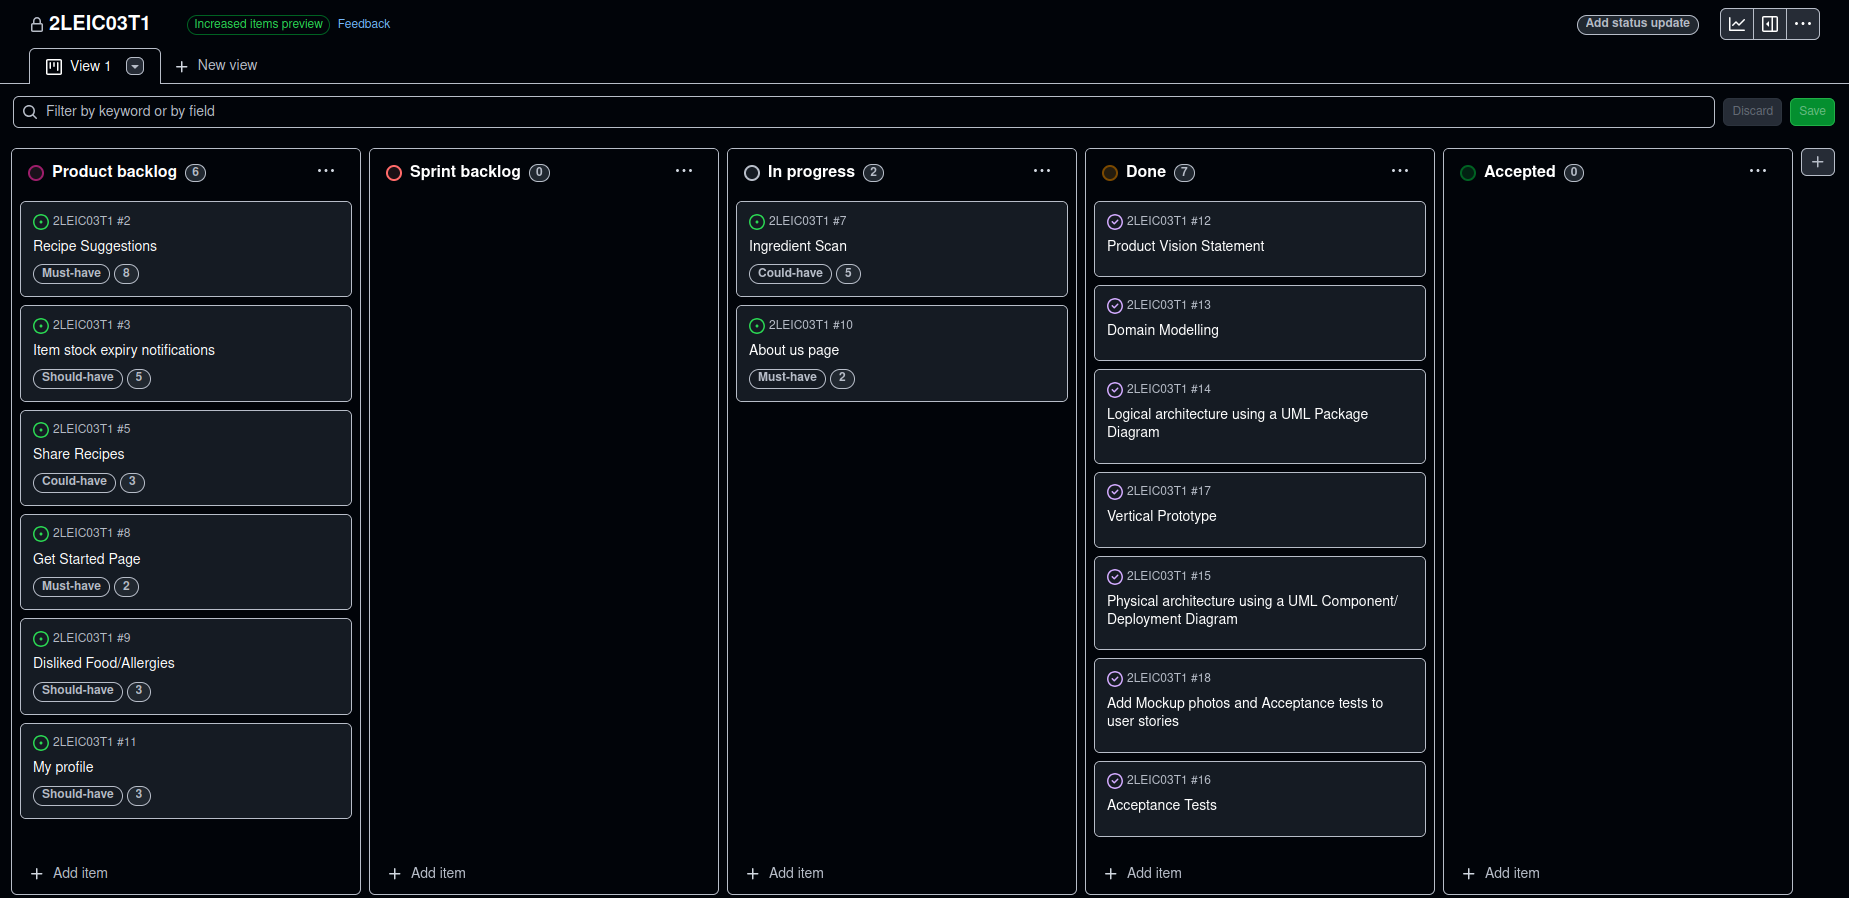
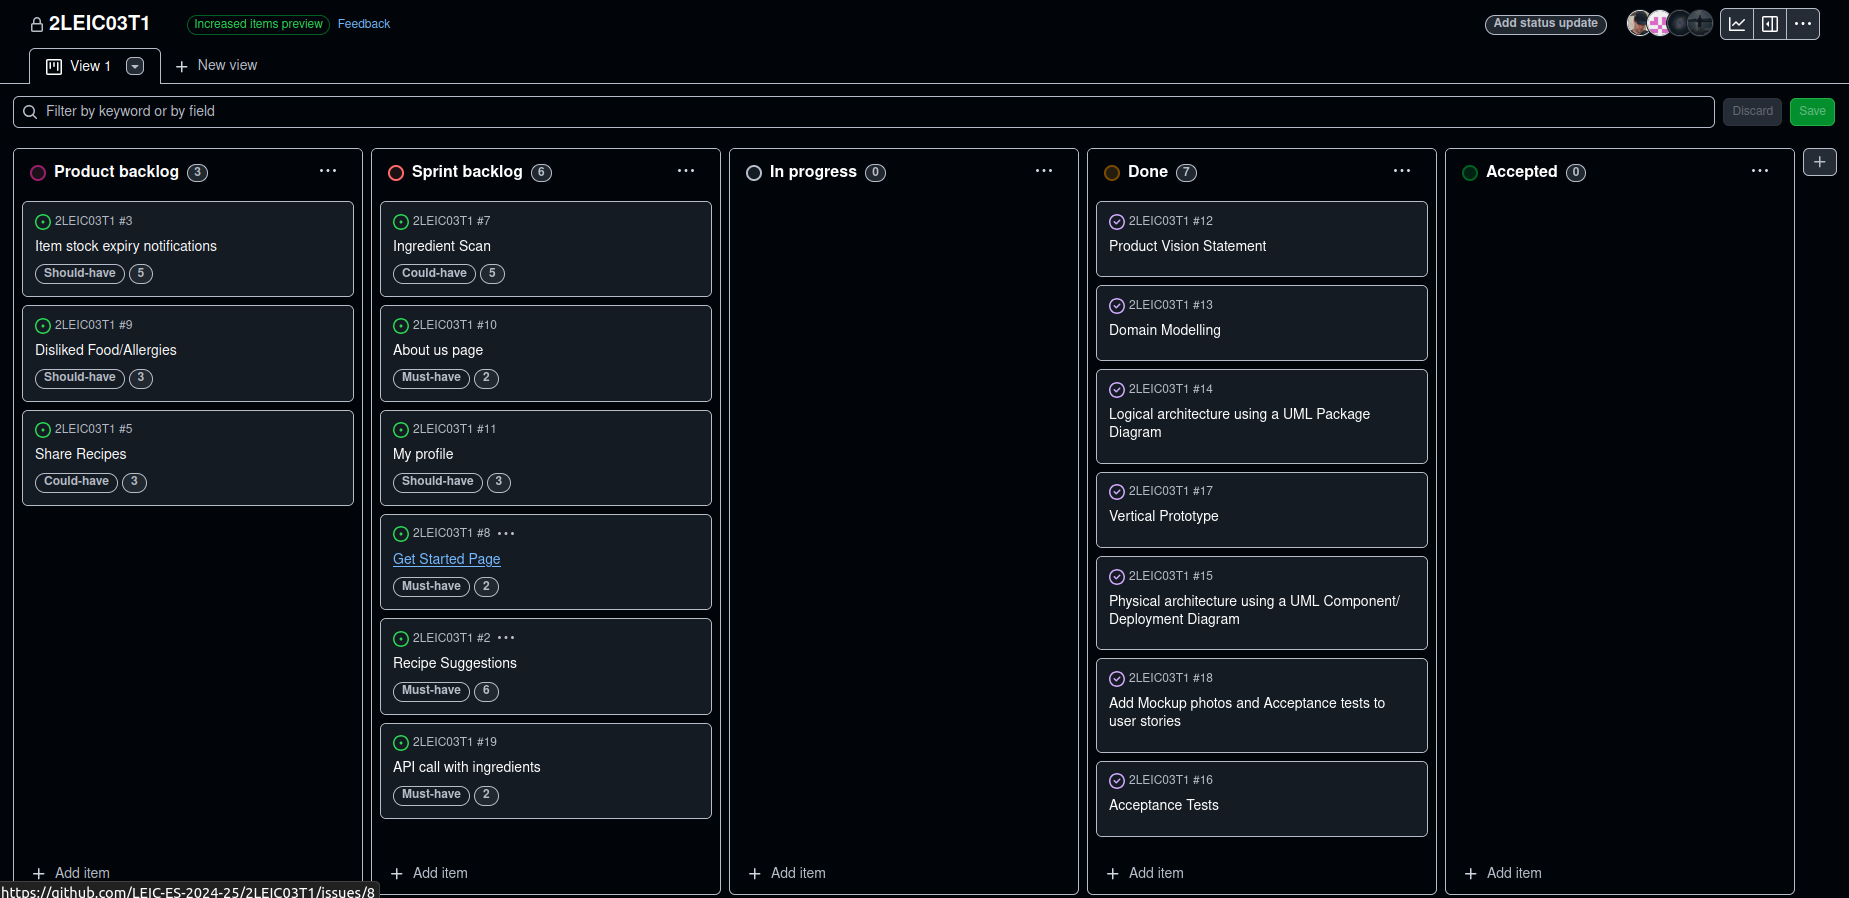
Changed some things on README and board

diff --git a/README.md b/README.md
@@ -25,7 +25,6 @@ This Software Development Report, tailored for LEIC-ES-2024-25, provides compreh
     - [Sprint 1](#sprint-1)
     - [Sprint 2](#sprint-2)
     - [Sprint 3](#sprint-3)
-    - [Sprint 4](#sprint-4)
     - [Final Release](#final-release)
 
 Contributions are expected to be made exclusively by the initial team, but we may open them to the community, after the course, in all areas and topics: requirements, technologies, development, experimentation, testing, etc.
@@ -277,7 +276,8 @@ You can find below information and references related with the project managemen
 -->
 
 - **Backlog Management**: [GitHub Project Board](https://github.com/orgs/LEIC-ES-2024-25/projects/27)
-- **Release Management**: [GitHub Project Board](<INSERIR_LINK_AQUI>)  
+- **Release Management**: 
+  [Sprint 0](<INSERIR_LINK_AQUI>)  
 
 
 ### Sprint 0
